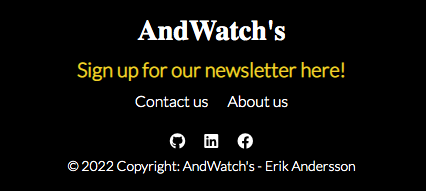
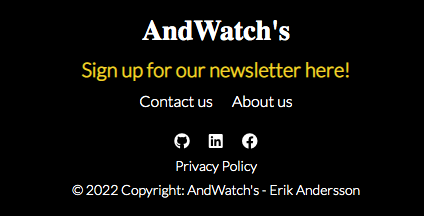
Updated footer image & text with privacy policy

diff --git a/README.md b/README.md
@@ -312,7 +312,7 @@ The design of the buttons on this webiste of course varies depending on the back
 <details>
 <summary>Footer</summary>
 <br>
-I choose a footer that would melt in to the rest of of the design theme (black/white/yellow). The footer holds the "Logo", "Newsletter link", "Contact link", "About us link", "social media links" and the "copyright information".
+I choose a footer that would melt in to the rest of of the design theme (black/white/yellow). The footer holds the "Logo", "Newsletter link", "Contact link", "About us link", "social media links", "Privacy Policy link" and the "copyright information".
 <br>
 
 ![Screenshot of footer](/readme_images/footer.png)
